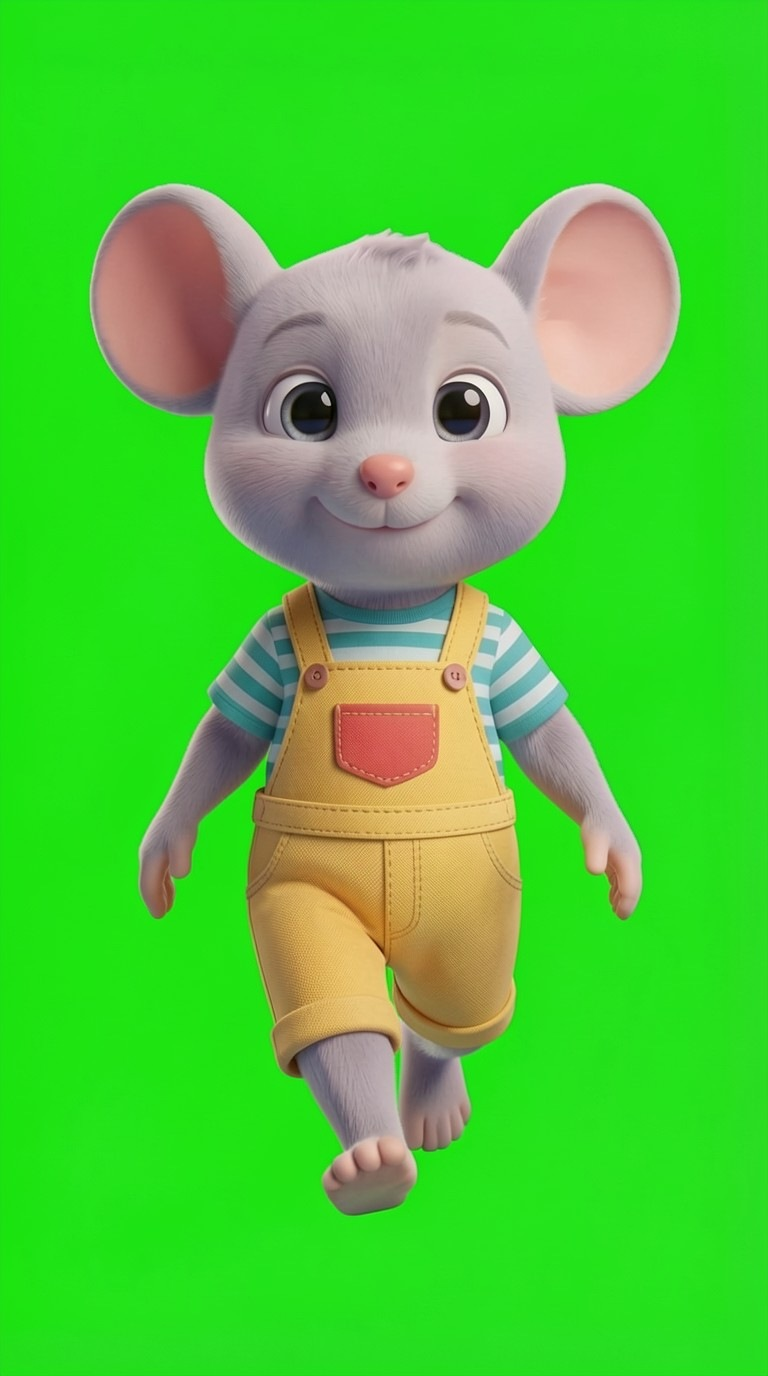
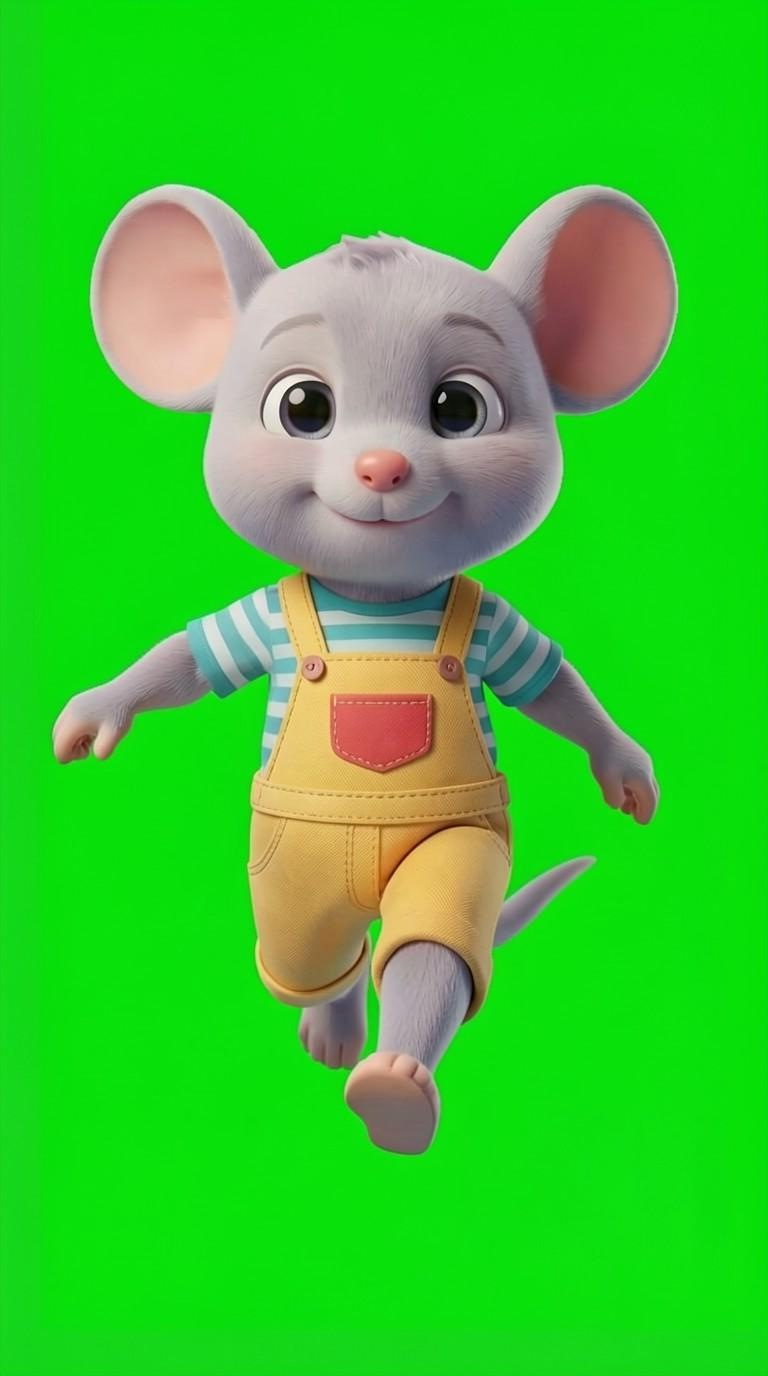
Pose di Chip e Spike, camminata del topolino corretta (braccia opposte alle gambe), ambientazione cucina
- cammina_sx ora e lo specchio di cammina_dx: passi sempre alternati e sincronizzati
- pose_pollinations.py: mantiene le proporzioni del riferimento, salta le pose gia fatte
- ambientazioni_pollinations.py: scene verticali nello stile del parco (cucina)

Claude-Session: https://claude.ai/code/session_01NF6Fm2GdvgsMHuP9LrYuDD

diff --git a/parco/pose_pollinations.py b/parco/pose_pollinations.py
@@ -14,7 +14,7 @@ La chiave Pollinations è iniettata dal proxy della sessione: non serve scriverl
 import base64, io, os, sys, time
 import numpy as np
 import requests
-from PIL import Image
+from PIL import Image, ImageOps
 from scipy.ndimage import binary_dilation, label
 
 URL = "https://gen.pollinations.ai/v1/images/edits"
@@ -30,8 +30,9 @@ RIFERIMENTI = {
 }
 
 POSE = {
-    "cammina_sx": "walking, left foot stepping forward, arms swinging naturally, mid-step, looking forward",
-    "cammina_dx": "walking, right foot stepping forward, arms swinging naturally, mid-step, looking forward",
+    # Passo con braccio opposto alla gamba avanti. cammina_sx NON si genera: è lo specchio di cammina_dx
+    # (il personaggio è simmetrico), così i due passi sono sempre alternati e sincronizzati.
+    "cammina_dx": "classic cartoon walk cycle CONTACT pose, front view, opposite arm and leg: the character's right leg steps far forward toward the camera, the character's left arm swings forward, the character's right arm swings backward, left leg stays behind with heel lifted, exaggerated clear walking pose",
     "china": "bending down and reaching to the ground with one hand to pick something up, knees bent, looking down",
     "tiene": "standing and holding both hands together in front of the belly at belly height, as if carrying a small object, smiling",
     "lancia": "throwing: one arm pulled far back over the shoulder about to throw, other arm forward for balance, determined smile",
@@ -42,14 +43,20 @@ POSE = {
 
 
 def su_verde(path):
+    """Ritaglio del personaggio su verde #00FF00, in 768x1376 SENZA stirarlo (proporzioni mantenute,
+    centrato in orizzontale e appoggiato in basso)."""
     im = Image.open(path).convert("RGBA")
-    im.putalpha(Image.fromarray(np.where(np.array(im)[..., 3] > 40, 255, 0).astype("uint8")))  # alpha netto
-    bg = Image.new("RGBA", im.size, (0, 255, 0, 255))
-    bg.alpha_composite(im)
-    return bg.convert("RGB").resize(SIZE)
+    a = np.array(im)
+    a[..., 3] = np.where(a[..., 3] > 40, 255, 0)
+    im = Image.fromarray(a, "RGBA")
+    k = min(SIZE[0] * 0.9 / im.width, SIZE[1] * 0.9 / im.height)
+    im = im.resize((round(im.width * k), round(im.height * k)), Image.LANCZOS)
+    bg = Image.new("RGBA", SIZE, (0, 255, 0, 255))
+    bg.alpha_composite(im, ((SIZE[0] - im.width) // 2, SIZE[1] - im.height - round(SIZE[1] * 0.04)))
+    return bg.convert("RGB")
 
 
-def chiedi(ref_png, posa, tentativi=4):
+def chiedi(ref_png, posa, tentativi=6):
     buf = io.BytesIO()
     su_verde(ref_png).save(buf, "PNG")
     prompt = (
@@ -97,16 +104,26 @@ def ritaglia(img):
     return im
 
 
+SPECCHIO = {"cammina_sx": "cammina_dx"}   # posa -> posa da specchiare
+
+
 def main():
     chi = sys.argv[1] if len(sys.argv) > 1 else "topo"
     if chi not in RIFERIMENTI:
         sys.exit(f"Personaggio sconosciuto: {chi} ({', '.join(RIFERIMENTI)})")
-    scelte = sys.argv[2:] or list(POSE)
+    scelte = [a for a in sys.argv[2:] if not a.startswith('--')] or (list(POSE) + list(SPECCHIO))
     os.makedirs(os.path.join(OUT, "raw"), exist_ok=True)
     ref = os.path.join(HERE, RIFERIMENTI[chi])
     for nome in scelte:
+        if os.path.exists(os.path.join(OUT, f"{chi}_{nome}.png")) and "--rifai" not in sys.argv:
+            print(f"⏭  {chi} / {nome} già fatta (usa --rifai per rigenerarla)")
+            continue
         print(f"🎨 {chi} / {nome}")
-        raw = chiedi(ref, POSE[nome])
+        if nome in SPECCHIO:
+            src = os.path.join(OUT, "raw", f"{chi}_{SPECCHIO[nome]}.jpg")
+            raw = ImageOps.mirror(Image.open(src).convert("RGB"))
+        else:
+            raw = chiedi(ref, POSE[nome])
         raw.save(os.path.join(OUT, "raw", f"{chi}_{nome}.jpg"), quality=93)
         ritaglia(raw).save(os.path.join(OUT, f"{chi}_{nome}.png"))
     print("✅ fatto →", OUT)

diff --git a/parco/ambientazioni_pollinations.py b/parco/ambientazioni_pollinations.py
@@ -1,0 +1,68 @@
+#!/usr/bin/env python3
+"""Genera nuove ambientazioni verticali 9:16 nello STESSO stile del parco (image-to-image, Pollinations).
+
+Uso:
+    python3 ambientazioni_pollinations.py             # tutte
+    python3 ambientazioni_pollinations.py cucina      # una sola
+
+Output: assets/amb/<nome>.png (768x1376, nessun personaggio, pavimento libero in basso).
+Il riferimento di stile è assets/s/sfondo_src.png (il parco).
+"""
+import base64, io, os, sys, time
+import requests
+from PIL import Image
+
+URL = "https://gen.pollinations.ai/v1/images/edits"
+MODEL = "klein"
+SIZE = (768, 1376)
+HERE = os.path.dirname(os.path.abspath(__file__))
+RIF = os.path.join(HERE, "assets", "s", "sfondo_src.png")
+OUT = os.path.join(HERE, "assets", "amb")
+
+AMB = {
+    "cucina": "a cozy bright children's kitchen interior with a wooden table, cabinets, a window with sunlight, fruit bowl on the counter",
+    "spiaggia": "a sunny sandy beach with gentle blue sea waves, a few shells and a distant sailboat, palm trees on the sides",
+    "asilo": "a colorful kindergarten classroom with small tables, shelves full of toys and books, big window, paintings on the wall",
+    "camera_sera": "a child's bedroom in the evening with a small bed, a warm night lamp, a window showing a starry night sky and moon",
+}
+
+
+def chiedi(prompt, tentativi=6):
+    buf = io.BytesIO()
+    Image.open(RIF).convert("RGB").resize(SIZE).save(buf, "PNG")
+    for n in range(tentativi):
+        try:
+            r = requests.post(
+                URL,
+                data={"model": MODEL, "size": f"{SIZE[0]}x{SIZE[1]}", "prompt": prompt},
+                files={"image": ("ref.png", buf.getvalue(), "image/png")},
+                timeout=240,
+            )
+            if r.status_code == 200:
+                b = r.json()["data"][0]["b64_json"]
+                return Image.open(io.BytesIO(base64.b64decode(b))).convert("RGB").resize(SIZE)
+            print(f"   HTTP {r.status_code}: {r.text[:120]}")
+        except requests.RequestException as e:
+            print("   errore rete:", e)
+        time.sleep(2 ** (n + 1))
+    raise RuntimeError("Pollinations non ha risposto")
+
+
+def main():
+    scelte = sys.argv[1:] or list(AMB)
+    os.makedirs(OUT, exist_ok=True)
+    for nome in scelte:
+        print("🏞 ", nome)
+        prompt = (
+            "Keep the exact same 3D Pixar-style rendering, soft lighting and colors as the reference image, "
+            "vertical 9:16. Change only the scene to: " + AMB[nome] + ". "
+            "The scene is EMPTY: no people, no animals, no characters. "
+            "The lower third of the frame is a plain matte wooden parquet floor, flat and non-reflective, no glass, no rug, free of objects, "
+            "so characters can be placed there. No text, no watermark."
+        )
+        chiedi(prompt).save(os.path.join(OUT, f"{nome}.png"))
+    print("✅ fatto →", OUT)
+
+
+if __name__ == "__main__":
+    main()
